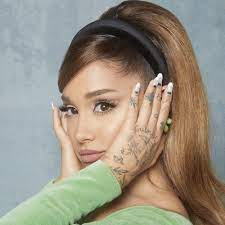
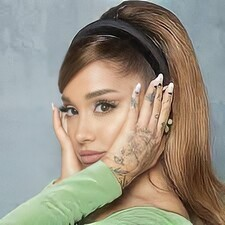
mejorando calidad de imagenes

diff --git a/index.html b/index.html
@@ -33,7 +33,7 @@
                 <div class="track_home_img">
 
                      <a href="detail_track.html"><img width="225px" src="./img/eyesclosedcancion.jpg" alt="Helsey track"></a>
-                     <a href="detail_artist.html"><h4>Helsey</h4></a>
+                     <a href="detail_artist.html"><h4>Halsey</h4></a>
                      <a href="detail_track.html"><h3>Eyes Closed</h3></a>
              
                 </div>
@@ -65,7 +65,7 @@
             <div class="track_home">
                 <div class="track_home_img">
 
-                     <a href="detail_track.html"><img src="./img/detalle.genero.theweeknd.jpg" alt="Blinding Lights track"></a>
+                     <a href="detail_track.html"><img src="./img/detalle.genero.theweekend.jpg" alt="Blinding Lights track"></a>
                      <a href="detail_artist.html"><h4>The Weeknd</h4></a>
                      <a href="detail_track.html"><h3>Blinding Lights</h3></a>
              
@@ -93,7 +93,7 @@
                 <div class="album_home_img">
 
                      <a href="detail_album.html"><img src="./img/fondo.generos.pop.jpg" alt="Helsey album"></a>
-                     <a href="detail_artist.html"><h4>Helsey</h4></a>
+                     <a href="detail_artist.html"><h4>Halsey</h4></a>
                      <a href="detail_album.html"><h3>Hopeless Fountain Kingdom</h3></a>
              
                 </div>
@@ -118,7 +118,7 @@
 
                      <a href="detail-genres.html"><img src="./img/fondo.generos.rock.alternativo.jpg" alt="the strokes album"></a>
                      <a href="detail_artist.html"><h4>The Strokes</h4></a>
-                     <a href="detail_album.html"><h3>The New Abanorml</h3></a>
+                     <a href="detail_album.html"><h3>The New Abanormal</h3></a>
             
 
                 </div>

diff --git a/detail-genres.html b/detail-genres.html
@@ -62,9 +62,9 @@
 
                 <div class="albumes_detail_genres">
 				    <div class="albumes_detail_genres_image">
-					    <a href="detail_album.html"><img src="./img/detalle.genero.theweeknd.jpg" alt="album imagen"></a>
+					    <a href="detail_album.html"><img src="./img/detalle.genero.theweekend.jpg" alt="album imagen"></a>
 
-                             <a href="./detail_artist.html"><h5>The Weeknd</h5></a>
+                             <a href="detail_artist.html"><h5>The Weeknd</h5></a>
 
                              <a href="detail_album.html"><h4>After Hours</h4></a>
 				    </div>
